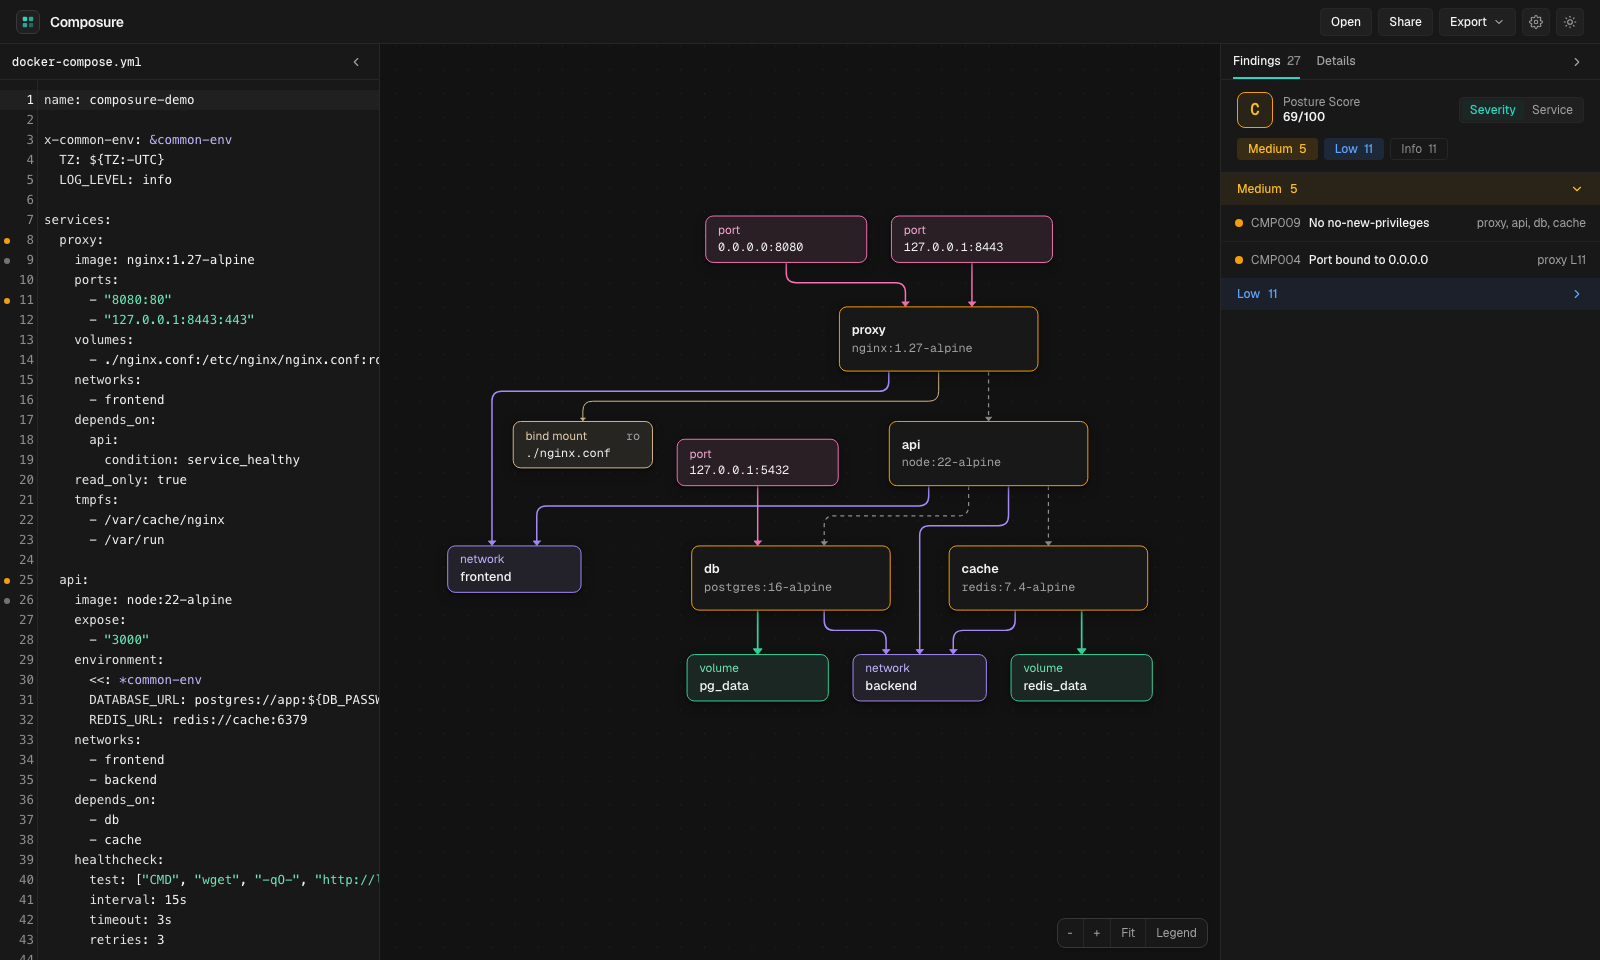
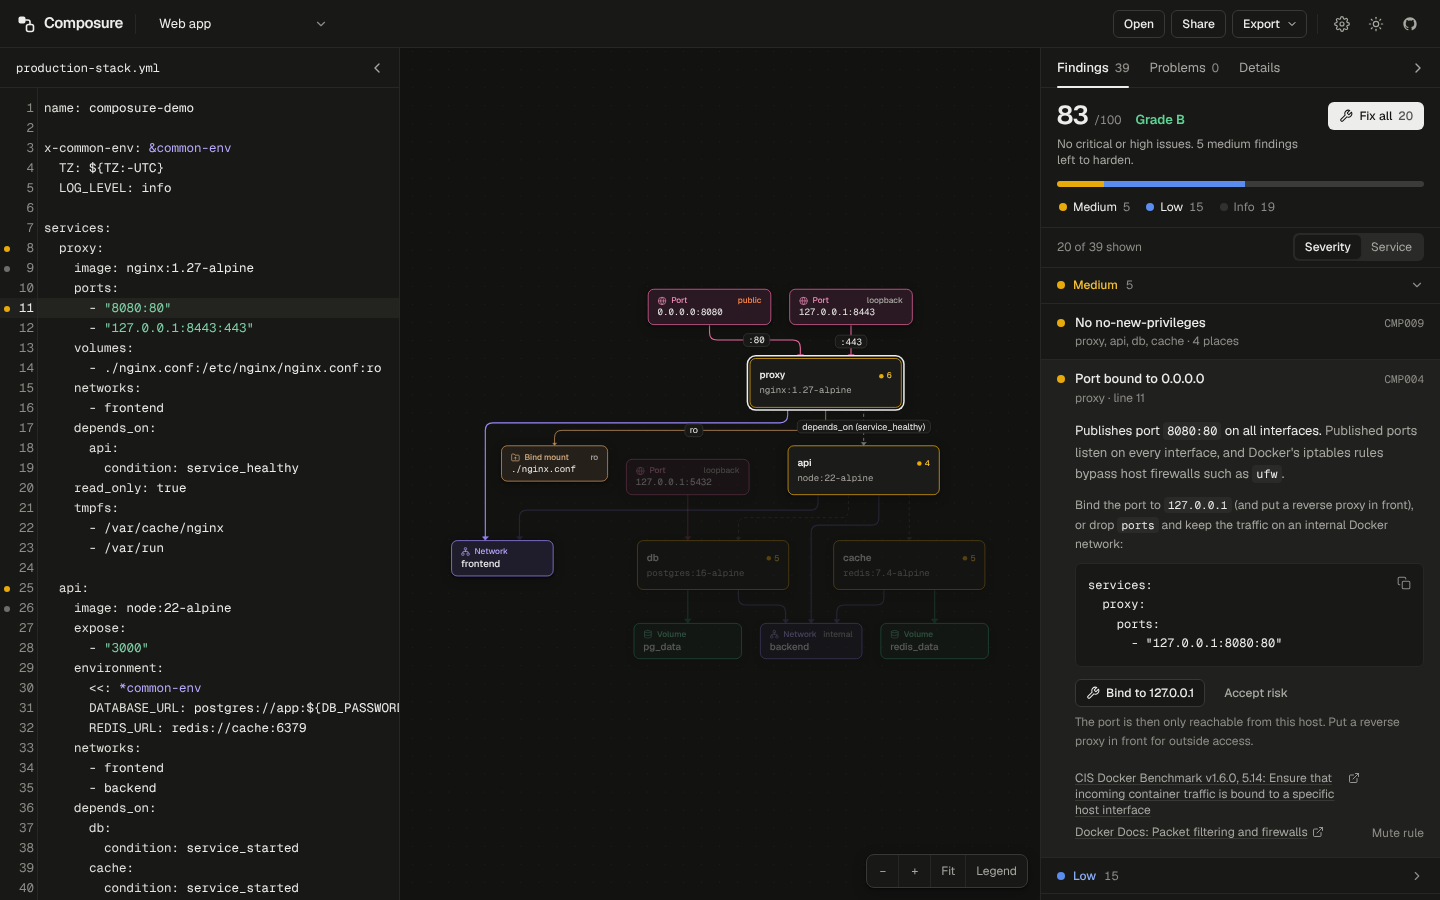
Refresh README screenshots and docs for the redesign
- New screenshots: findings with a fix (dark), project overview
  (light), and the Fix all dialog
- README covers Fix all, score by area, CMP022, CLI --fix
- Page title, description, theme-color and Open Graph tags

Claude-Session: https://claude.ai/code/session_01PbzvHejx6FoM3D8fDBvYV6

diff --git a/index.html b/index.html
@@ -6,11 +6,16 @@
     <link rel="icon" type="image/svg+xml" href="./favicon.svg" />
     <meta name="color-scheme" content="dark light" />
     <meta name="referrer" content="no-referrer" />
-    <title>Composure: Docker Compose Visualizer and Hardening Checker</title>
+    <title>Composure · Docker Compose security checker</title>
     <meta
       name="description"
-      content="100% client-side Docker Compose architecture visualizer and security hardening scanner."
+      content="Check docker-compose.yml files for security and correctness, see the architecture, and apply safe fixes. Runs entirely in your browser."
     />
+    <meta name="theme-color" media="(prefers-color-scheme: light)" content="#ffffff" />
+    <meta name="theme-color" media="(prefers-color-scheme: dark)" content="#181817" />
+    <meta property="og:title" content="Composure" />
+    <meta property="og:description" content="Check docker-compose.yml files for security and correctness. Runs entirely in your browser." />
+    <meta property="og:type" content="website" />
   </head>
   <body class="antialiased">
     <div id="root"></div>

diff --git a/README.md b/README.md
@@ -5,7 +5,7 @@
 Paste or drop a Compose file to immediately inspect:
 1. **Interactive Topology Diagram**: services, networks (including the implicit `default` network), named volumes, host bind mounts (`ro`/`rw`), published ports (public vs. loopback), `depends_on` and `network_mode: service:` relationships.
 2. **Compose Problems**: typos in keys (with "did you mean"), undefined networks/volumes/secrets/services, dependency cycles, host port conflicts, invalid ports, profile and healthcheck dependency traps, and more. These are things `docker compose up` would reject or silently get wrong.
-3. **Security Hardening Review**: 21 rules (`CMP001`–`CMP021`) mapped to the CIS Docker Benchmark v1.6.0, with exact YAML line numbers, explanations, safe one-click fixes with a diff preview, and an overall score and grade (`A`–`F`).
+3. **Security Hardening Review**: 22 rules (`CMP001`–`CMP022`) mapped to the CIS Docker Benchmark v1.6.0, with exact YAML line numbers, explanations, safe fixes with a diff preview (one at a time or **Fix all**), and a score with a breakdown per area and per service.
 
 ---
 
@@ -20,9 +20,11 @@ Paste or drop a Compose file to immediately inspect:
 
 ## Screenshots
 
-| Interactive Topology & Live YAML Editor (Dark Mode) | Security Hardening Findings & Node Inspector (Light Mode) |
+| Findings, diagram and editor (dark) | Score by area, services and exposure (light) |
 | :---: | :---: |
-| ![Composure Dark Mode](docs/screenshots/composure-dark.png) | ![Composure Light Mode](docs/screenshots/composure-light.png) |
+| ![Composure in dark mode with a finding and its fix](docs/screenshots/composure-dark.png) | ![Composure in light mode showing the project overview](docs/screenshots/composure-light.png) |
+
+![Fix all: choose fixes per rule and review the combined diff](docs/screenshots/composure-fix-all.png)
 
 ---
 
@@ -40,14 +42,17 @@ Paste or drop a Compose file to immediately inspect:
 - **Safe Fixes**
   - Fixes are precise text edits, never a rewrite of the file: comments, quoting, and ordering stay as you wrote them
   - Every fix shows a diff preview first and can be undone with `Ctrl/Cmd+Z`
+  - **Fix all** lists every automatic fix per rule with checkboxes and a combined diff, so you can apply twenty fixes in one go and still see exactly what changes
+  - Fixes that can change behavior say so (for example, `cap_drop: ALL` may need a capability added back)
   - Fixes are only offered where they are safe (for example, a value inherited from a YAML anchor is overridden for that one service instead of editing the shared anchor)
+- **Rating**: an overall score and grade, plus a score per area (privileges, host isolation, network exposure, secrets, image pinning, reliability), per service, and a summary of what the stack exposes (public ports, socket mounts, writable host mounts, ...)
 - **Accepting Risks**: mute a rule everywhere, or accept a single finding with a `# composure-ignore` comment (see below). Accepted risks stay visible but no longer count toward the score.
-- **Export & Sharing**: diagram as **SVG** or high-DPI **PNG**, report as **Markdown** (including Compose problems, per-service scores, and accepted risks), and compressed share links.
-- **CLI & CI**: text, JSON, SARIF, and Markdown output, exit codes for pipelines, and a ready-made GitHub Action.
+- **Export & Sharing**: download or copy the (fixed) YAML, diagram as **SVG** or high-DPI **PNG**, report as **Markdown** (including Compose problems, scores per area and service, and accepted risks), and compressed share links.
+- **CLI & CI**: text, JSON, SARIF, and Markdown output, `--fix` to apply fixes in place, exit codes for pipelines, and a ready-made GitHub Action.
 
 ---
 
-## Hardening Rules (`CMP001` to `CMP021`)
+## Hardening Rules (`CMP001` to `CMP022`)
 
 CIS numbers refer to the **CIS Docker Benchmark v1.6.0** (as implemented by `docker-bench-security`).
 
@@ -56,7 +61,7 @@ CIS numbers refer to the **CIS Docker Benchmark v1.6.0** (as implemented by `doc
 | **`CMP001`** | `critical` | Privileged mode enabled | `privileged: true` (CIS 5.5). |
 | **`CMP002`** | `critical` | Docker socket mounted | Mounts of `docker.sock`, and other runtime sockets (`containerd.sock`, `podman.sock`, `crio.sock`), including `:ro` mounts, which do not block API calls (CIS 5.32). |
 | **`CMP003`** | `medium` / `info` | Unpinned image tag | `:latest`, a missing tag, or a `${TAG:-latest}` fallback (`medium`); a version tag without an `@sha256:` digest (`info`). Fully interpolated images (`${IMAGE}`) are skipped. |
-| **`CMP004`** | `critical` / `high` / `medium` | Port bound to 0.0.0.0 | Ports published on all interfaces, which Docker's iptables rules expose past `ufw` (CIS 5.14). `high` for datastore/admin ports (PostgreSQL, MySQL, Redis, MongoDB, Elasticsearch, etcd, Kafka, ...), `critical` for the unencrypted Docker API (`2375`). Skipped for `network_mode: host`, where `ports` is ignored. |
+| **`CMP004`** | `critical` / `high` / `medium` | Port bound to 0.0.0.0 | Ports published on all interfaces, which Docker's iptables rules expose past `ufw` (CIS 5.14). `high` for datastore and remote-access ports (PostgreSQL, MySQL, Redis, MongoDB, Elasticsearch, etcd, Kafka, SSH, RDP, VNC, ...), `critical` for the unencrypted Docker API (`2375`). Skipped for `network_mode: host`, where `ports` is ignored. |
 | **`CMP005`** | `high` | Host namespace shared | `network_mode`, `pid`, `ipc`, `uts`, `userns_mode`, or `cgroup` set to `host` (CIS 5.10, 5.16, 5.17, 5.21, 5.31). |
 | **`CMP006`** | `critical` / `high` | Dangerous capability | `cap_add: ALL` (`critical`), and `SYS_ADMIN`, `SYS_MODULE`, `SYS_RAWIO`, `SYS_PTRACE`, `NET_ADMIN`, `DAC_READ_SEARCH`, `BPF`, `MAC_ADMIN`, and others (`high`) (CIS 5.4). |
 | **`CMP007`** | `low` | Capabilities not dropped | No `cap_drop: [ALL]` (CIS 5.4). Skipped for privileged services, where `cap_drop` has no effect. |
@@ -74,6 +79,7 @@ CIS numbers refer to the **CIS Docker Benchmark v1.6.0** (as implemented by `doc
 | **`CMP019`** | `critical` / `high` | Database auth disabled | `POSTGRES_HOST_AUTH_METHOD=trust`, `MYSQL_ALLOW_EMPTY_PASSWORD`, `ALLOW_EMPTY_PASSWORD`, disabled Elasticsearch/OpenSearch security. `critical` when the service is also published on all interfaces. |
 | **`CMP020`** | `info` | No PIDs limit | No `pids_limit` / `deploy.resources.limits.pids`, so a fork bomb can exhaust the host (CIS 5.29). |
 | **`CMP021`** | `medium` | Shared mount propagation | Bind mounts with `shared` or `rshared` propagation (CIS 5.20). |
+| **`CMP022`** | `info` | No restart policy | No `restart` (or `deploy.restart_policy`), so the service stays down after a crash or reboot (CIS 5.15). |
 
 ### Compose Problems
 
@@ -102,6 +108,8 @@ Besides security findings, the **Problems** tab lists correctness issues:
 Each service starts at 100 and loses points per open finding: **critical 30, high 15, medium 6, low 2, info 0**. The project score is the average of the weakest service and the mean of all services, so one bad service drags the grade down, but adding more well-configured services does not. While a critical finding is open the score is capped at **59 (D)**, and a high finding caps it at **74 (C)**.
 
 Grades: `A` ≥ 90, `B` ≥ 75, `C` ≥ 60, `D` ≥ 40, `F` < 40. Accepted risks (below) do not count.
+
+**Score by area** answers "where is this stack weak?". Every rule belongs to one area (privileges, host isolation, network exposure, secrets & auth, image pinning, reliability). An area's score is the share of services without issues in that area, weighted by each service's worst issue there (critical 1, high 0.7, medium 0.4, low 0.15), so "three of four services run privileged" reads as a low score even if the overall grade is carried by other areas.
 
 ---
 
@@ -148,7 +156,7 @@ docker-compose.yml  Grade C (72/100)  3 services
   15      high     [db] Database auth disabled: PostgreSQL accepts every connection without a password (POSTGRES_HOST_AUTH_METHOD: trust). CMP019
   ...
 
-✖ 31 findings (0 critical, 2 high, 5 medium, 12 low, 12 info), 1 Compose error
+✖ 34 findings (0 critical, 2 high, 5 medium, 12 low, 15 info), 1 Compose error
 ```
 
 | Option | Description |
@@ -159,6 +167,7 @@ docker-compose.yml  Grade C (72/100)  3 services
 | `--min-severity <level>` | hide findings below this level in text output (default `low`) |
 | `--disable <ids>` | skip rules, e.g. `CMP007,CMP016` |
 | `--no-fail-on-problems` | do not exit 1 on Compose errors |
+| `--fix` | apply all safe automatic fixes and write the files back (review with `git diff`) |
 | `--list-rules` | print all rules |
 
 Without file arguments it looks for `compose.yaml` / `docker-compose.yml` in the current directory; `-` reads from stdin. Exit codes: `0` clean, `1` threshold reached or Compose errors, `2` usage or read error.
@@ -214,13 +223,13 @@ The pure TypeScript core is separate from the React UI, and is shared by the web
 - `src/core/` (no React or DOM imports)
   - `parser.ts`, `normalizer.ts`: YAML → normalized `ComposeModel` with line numbers
   - `astDiagnostics.ts`, `composeSchema.ts`, `validator.ts`: Compose problems
-  - `rules/`: one file per hardening rule (`CMP001`–`CMP021`), plus `shared.ts` helpers
-  - `ruleEngine.ts`: rule execution and scoring
+  - `rules/`: one file per hardening rule (`CMP001`–`CMP022`), plus `shared.ts` helpers
+  - `categories.ts`, `ruleEngine.ts`: rule areas, rule execution, and scoring
   - `suppressions.ts`: `# composure-ignore` comments
   - `analyze.ts`: one-call parse + validate + rules + suppressions + score
-  - `autofix.ts`: safe, minimal text edits for fixes; `textDiff.ts` for previews
+  - `autofix.ts`: safe, minimal text edits for single fixes and Fix all; `textDiff.ts` for previews
   - `graph.ts`, `report.ts`, `sarif.ts`, `share.ts`
-- `src/ui/`: React components, CodeMirror 6 integration (`Editor.tsx`, `composeCompletions.ts`), React Flow + ELK diagram (`diagram/`)
+- `src/ui/`: React components, shared controls (`primitives.tsx`), CodeMirror 6 integration (`Editor.tsx`, `composeCompletions.ts`), React Flow + ELK diagram (`diagram/`). Colors live as design tokens in `src/index.css`.
 - `src/cli/composure.ts`: the command-line interface (built to `dist-cli/composure.mjs`)
 - `action.yml`: the GitHub Action
 - `tests/`: Vitest suites and YAML fixtures

diff --git a/CONTRIBUTING.md b/CONTRIBUTING.md
@@ -37,10 +37,11 @@ services:
   );
 }
 
-export const CMP022: Rule = {
-  id: 'CMP022',
+export const CMP023: Rule = {
+  id: 'CMP023',
   title: 'Short, clear title', // at most 26 characters
   severity: 'medium', // 'critical' | 'high' | 'medium' | 'low' | 'info'
+  category: 'privileges', // area for the score breakdown, see src/core/categories.ts
   description: 'Why this configuration is a risk, in one sentence.',
   fix: buildFix('app'),
   references: [
@@ -75,6 +76,7 @@ If the fix is mechanical and safe, attach an `autofix` with structured operation
 ```ts
 autofix: {
   label: 'Add no-new-privileges:true',
+  caution: 'setuid tools such as sudo stop working inside the container.', // when behavior can change
   operations: [
     { kind: 'addListItem', service: service.name, key: 'security_opt', item: 'no-new-privileges:true', compare: 'securityOpt' },
   ],
